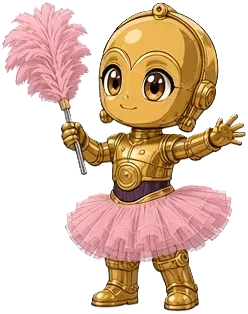
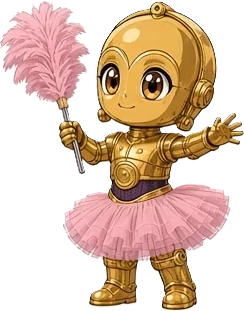
Use the final droid sprite set; credit Jupiter at the bottom of Spacedust
The poses are now exactly the 16 sprites from the final sheet, cut out
by their own pixels so no neighbour's duster or hand bleeds into a
crop. Two poses that were dropped were still in use: the empty states
now use the neutral standing pose, and "review ready" uses the wink.

The bottom of the page now says "token prices and routing powered by
Jup.ag".

Claude-Session: https://claude.ai/code/session_011GDr74hFKEshUDscfK1aiU

diff --git a/public/app.js b/public/app.js
@@ -246,7 +246,7 @@ let srT;
 function srSay(text) { const el = $("#srStatus"); clearTimeout(srT); el.textContent = ""; srT = setTimeout(() => { el.textContent = text; }, 60); }
 
 /* ================= mascot ================= */
-const POSE_DIMS = { 1: [191, 326], 2: [246, 326], 3: [245, 325], 4: [160, 321], 5: [303, 325], 6: [242, 317], 7: [259, 334], 8: [252, 312], 9: [248, 314], 10: [285, 309], 11: [308, 314], 12: [274, 312], 13: [212, 312], 14: [262, 321], 15: [263, 318], 16: [259, 320], 17: [189, 319], 18: [261, 321], 19: [222, 322] };
+const POSE_DIMS = { 1: [187, 322], 2: [242, 321], 3: [241, 321], 4: [157, 317], 5: [299, 321], 6: [240, 313], 7: [255, 330], 8: [248, 307], 9: [244, 311], 10: [280, 305], 11: [305, 309], 12: [270, 308], 13: [258, 317], 14: [259, 314], 15: [255, 316], 16: [257, 317] };
 const pose = (n) => `/img/droid/pose-${String(n).padStart(2, "0")}.webp`;
 function setPose(btn, n, { mode = "idle", hop = true } = {}) {
   if (!btn) return;
@@ -908,7 +908,7 @@ async function loadHoldings({ silent = false } = {}) {
     return;
   }
   const capped = autoSelect(true);
-  setPose(sceneMascot("pockets"), state.rows.some((r) => r.usd != null) ? 2 : 13);
+  setPose(sceneMascot("pockets"), state.rows.some((r) => r.usd != null) ? 2 : 1);
   renderPockets({ stagger: true });
   if (capped) toast({ title: `picked the ${MAX} largest`, body: `You have ${capped} tokens in this range. ${MAX} fit in one run; dust the rest next run.` });
 }
@@ -1029,7 +1029,7 @@ function makeRow(r) {
     if (input.checked) sweep(el);
     invalidatePlan();
     renderPocketsMeta(); renderAside(); renderBar();
-    if (input.checked) react(state.selected.size >= MAX ? 13 : 9, 2, 900);
+    if (input.checked) react(state.selected.size >= MAX ? 1 : 9, 2, 900);
     if (input.checked && r.usd > Math.max(25, state.range.max === Infinity ? 25 : state.range.max)) toast({ title: "heads up: that’s not dust", body: [h("span", { class: "data" }, tokLabel(r)), ` is worth ${usd(r.usd)}. Untick it if you meant to keep it.`] });
   });
   return el;
@@ -1124,7 +1124,7 @@ function renderPockets({ stagger = false } = {}) {
     const rent = rcEmptiesMine();
     if (rent.length) $("#pkFacts").textContent += ` ${plural(rent.length, "empty account")} still ${rent.length === 1 ? "holds" : "hold"} about ${solAmt(rent.reduce((a, x) => a + x.rentLamports, 0))} SOL of rent you can get back.`;
     // with rent on offer, the bar's one action is "reclaim"; the card doesn't repeat it
-    fill(pkState, rent.length ? stateStill(13, "rent to reclaim", "Empty token accounts in this wallet are holding SOL. Reclaim it from the bar below.") : stateStill(13, "nothing to sell", "Check back after more small tokens land in this wallet."),
+    fill(pkState, rent.length ? stateStill(1, "rent to reclaim", "Empty token accounts in this wallet are holding SOL. Reclaim it from the bar below.") : stateStill(1, "nothing to sell", "Check back after more small tokens land in this wallet."),
       h("div", { class: "state-actions" },
         h("button", { class: "btn-ghost sm", type: "button", onclick: () => openWallets() }, icon("wallet", "i i-sm"), "switch wallet"),
         h("button", { class: "btn-text sm", type: "button", onclick: () => loadHoldings() }, icon("refresh", "i i-sm"), "check again")));
@@ -1526,7 +1526,7 @@ async function startPreview(mints, { notice = null, reuse = null } = {}) {
   state.building = null; setIdle();
   renderCut(); renderBar(); startRing();
   const n = state.plan.txs.length;
-  setPose(sceneMascot("cut"), n ? 19 : 4);
+  setPose(sceneMascot("cut"), n ? 8 : 4);
   srSay(n ? `Preview ready: ${plural(n, "transaction")}, one wallet prompt.${merged.skipped.length ? ` ${merged.skipped.length} skipped.` : ""}` : "Nothing could be swapped. Reasons are listed.");
   if (failure) {
     const p = state.plan;
@@ -1876,7 +1876,7 @@ async function approve() {
       ? { title: "cancelled in wallet. nothing was sent", body: fresh2 ? "The preview is still fresh. Approve again when you’re ready." : "Refresh the quotes whenever you’re ready." }
       : { title: "the wallet couldn’t sign", body: `${String(e?.message || e).slice(0, 160)} Nothing was sent.`, tone: "bad" });
     setPose(sceneMascot("cut"), 4);
-    setTimeout(() => setPose(sceneMascot("cut"), 19, { hop: false }), 1600);
+    setTimeout(() => setPose(sceneMascot("cut"), 8, { hop: false }), 1600);
     return;
   }
   p.sent = true; // from here on this plan can only be retried as a fresh preview
@@ -2227,7 +2227,7 @@ function dustAgain() {
   if (state.rowsFor !== state.account?.address) { go("pockets", { back: true }).then(() => loadHoldings()); return; }
   go("pockets", { back: true }).then(() => {
     autoSelect(true);
-    setPose(sceneMascot("pockets"), state.rows.some((r) => r.usd != null) ? 2 : 13);
+    setPose(sceneMascot("pockets"), state.rows.some((r) => r.usd != null) ? 2 : 1);
     renderPockets();
   });
 }
@@ -2360,7 +2360,7 @@ async function loadAccounts({ silent = false, prices = false } = {}) {
     rc.burnSel = new Set([...rc.burnSel].filter((x) => by.get(x)?.burnable));
   }
   rcBackfillNames();
-  if (state.scene === "cleanup" && !rc.plan && !rc.building) setPose(sceneMascot("cleanup"), rcHasWork() ? 2 : 13);
+  if (state.scene === "cleanup" && !rc.plan && !rc.building) setPose(sceneMascot("cleanup"), rcHasWork() ? 2 : 1);
   renderCleanup(); renderRentCard(); renderResultReclaim(); renderBar();
   if (state.scene === "pockets" && !state.loading && !state.loadError && !state.rows.some((r) => r.usd != null && !isBurnRow(r))) renderPockets();
 }
@@ -2507,7 +2507,7 @@ function drawRcPick() {
       : alone.unchecked ? "Every account in this wallet still holds something, and some couldn’t be checked just now, so there’s nothing to close."
       : "This wallet has no token accounts besides SOL itself, so there’s nothing to close.";
     // the bar carries "back to your dust"; the card only offers what the bar doesn't
-    fill(main, h("div", { class: "state-card" }, stateStill(13, "all clear", blocked.length ? "This wallet isn’t allowed to close the accounts it has." : "Empty accounts show up here after you sell or send tokens."),
+    fill(main, h("div", { class: "state-card" }, stateStill(1, "all clear", blocked.length ? "This wallet isn’t allowed to close the accounts it has." : "Empty accounts show up here after you sell or send tokens."),
       h("div", { class: "state-actions" }, h("button", { class: "btn-text sm", type: "button", onclick: () => loadAccounts() }, icon("refresh", "i i-sm"), "check again"))),
       rcBlockedBox(blocked), rcLeftAlone(alone));
     aside.replaceChildren();
@@ -2908,7 +2908,7 @@ async function buildReclaim({ notice = null } = {}) {
   rc.plan = { txs, skipped, owner, at: Date.now(), sent: false, burns: txs.reduce((s, t) => s + t.accounts.filter((a) => a.action !== "close").length, 0) };
   setIdle();
   renderCleanup(); renderBar();
-  setPose(sceneMascot("cleanup"), txs.length ? 19 : 4);
+  setPose(sceneMascot("cleanup"), txs.length ? 8 : 4);
   srSay(txs.length ? `Review ready: ${plural(txs.length, "transaction")}, one wallet prompt.${skipped.length ? ` ${skipped.length} skipped.` : ""}` : "Nothing could be closed. Reasons are listed.");
 }
 function rcCancelBuild() {
@@ -2969,7 +2969,7 @@ async function approveReclaim() {
       ? { title: "cancelled in wallet. nothing was sent", body: "The review is still here. Approve again when you’re ready." }
       : { title: "the wallet couldn’t sign", body: `${String(e?.message || e).slice(0, 160)} Nothing was sent.`, tone: "bad" });
     setPose(sceneMascot("cleanup"), 4);
-    setTimeout(() => setPose(sceneMascot("cleanup"), 19, { hop: false }), 1600);
+    setTimeout(() => setPose(sceneMascot("cleanup"), 8, { hop: false }), 1600);
     return;
   }
   p.sent = true;

diff --git a/public/dust/index.html b/public/dust/index.html
@@ -116,7 +116,7 @@
       <div class="hero-stage">
         <div class="mascot mascot-hero" id="heroMascot" aria-hidden="true">
           <span class="m-glow" aria-hidden="true"></span>
-          <img src="/img/droid/pose-02.webp" width="246" height="326" alt="" decoding="async" fetchpriority="low">
+          <img src="/img/droid/pose-02.webp" width="242" height="321" alt="" decoding="async" fetchpriority="low">
           <span class="m-rim" aria-hidden="true"></span>
         </div>
       </div>
@@ -155,6 +155,7 @@
           </div>
           <button class="btn-ghost" type="button" data-reclaim>just reclaim rent<svg class="i" aria-hidden="true"><use href="#i-arrow"/></svg></button>
         </div>
+        <p class="powered">token prices and routing powered by <a href="https://jup.ag" target="_blank" rel="noreferrer">Jup.ag</a></p>
 
       </div>
     </div>

diff --git a/public/styles.css b/public/styles.css
@@ -1058,6 +1058,8 @@ html.revisit .bar-top .bar-in, html.revisit .bar-bot .bar-in { animation: none; 
 .liner-cleanup > div { flex: 1 1 420px; min-width: 0; }
 .liner-cleanup p:not(.overline) { color: var(--lav-2); font-size: 14px; max-width: 68ch; }
 .liner-cleanup .btn-ghost { flex: none; }
+.powered { padding: 24px 0 8px; border-top: 1px solid var(--hair); text-align: center; font-size: 13px; color: var(--lav-2); }
+.powered a { color: var(--text); text-underline-offset: 3px; }
 
 .rent-card { animation: fadein .45s var(--ease-out); display: flex; align-items: center; justify-content: space-between; gap: 12px; padding: 14px 16px; --c: rgb(222 178 95 / .55); --fbg: linear-gradient(180deg, rgb(222 178 95 / .09), rgb(45 32 49 / .32)); }
 .rent-card .overline { margin-bottom: 4px; color: var(--flare); }
